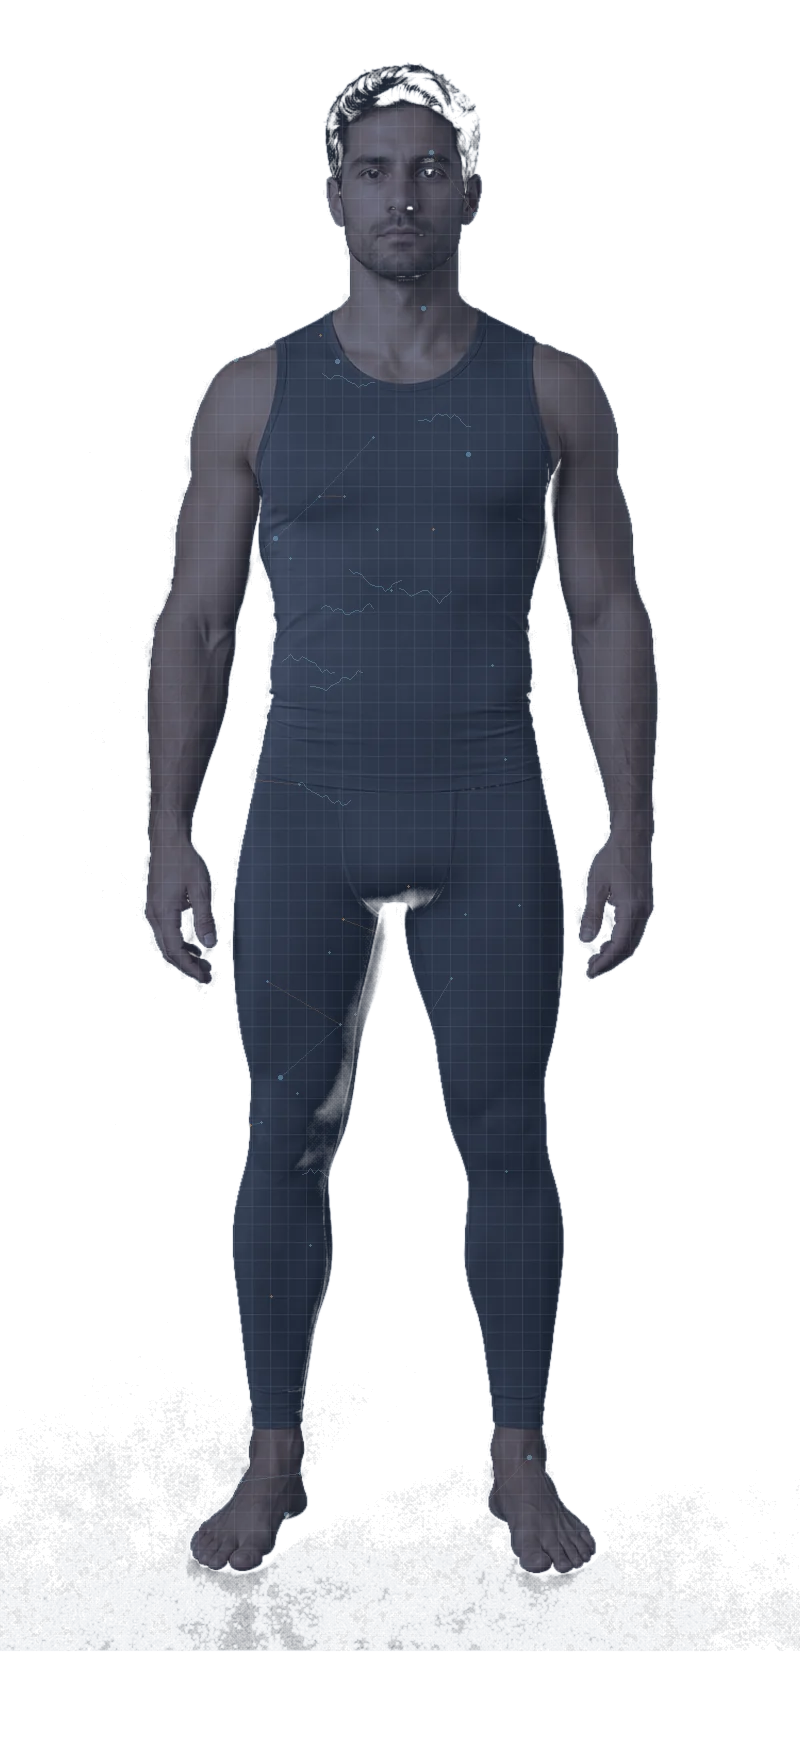
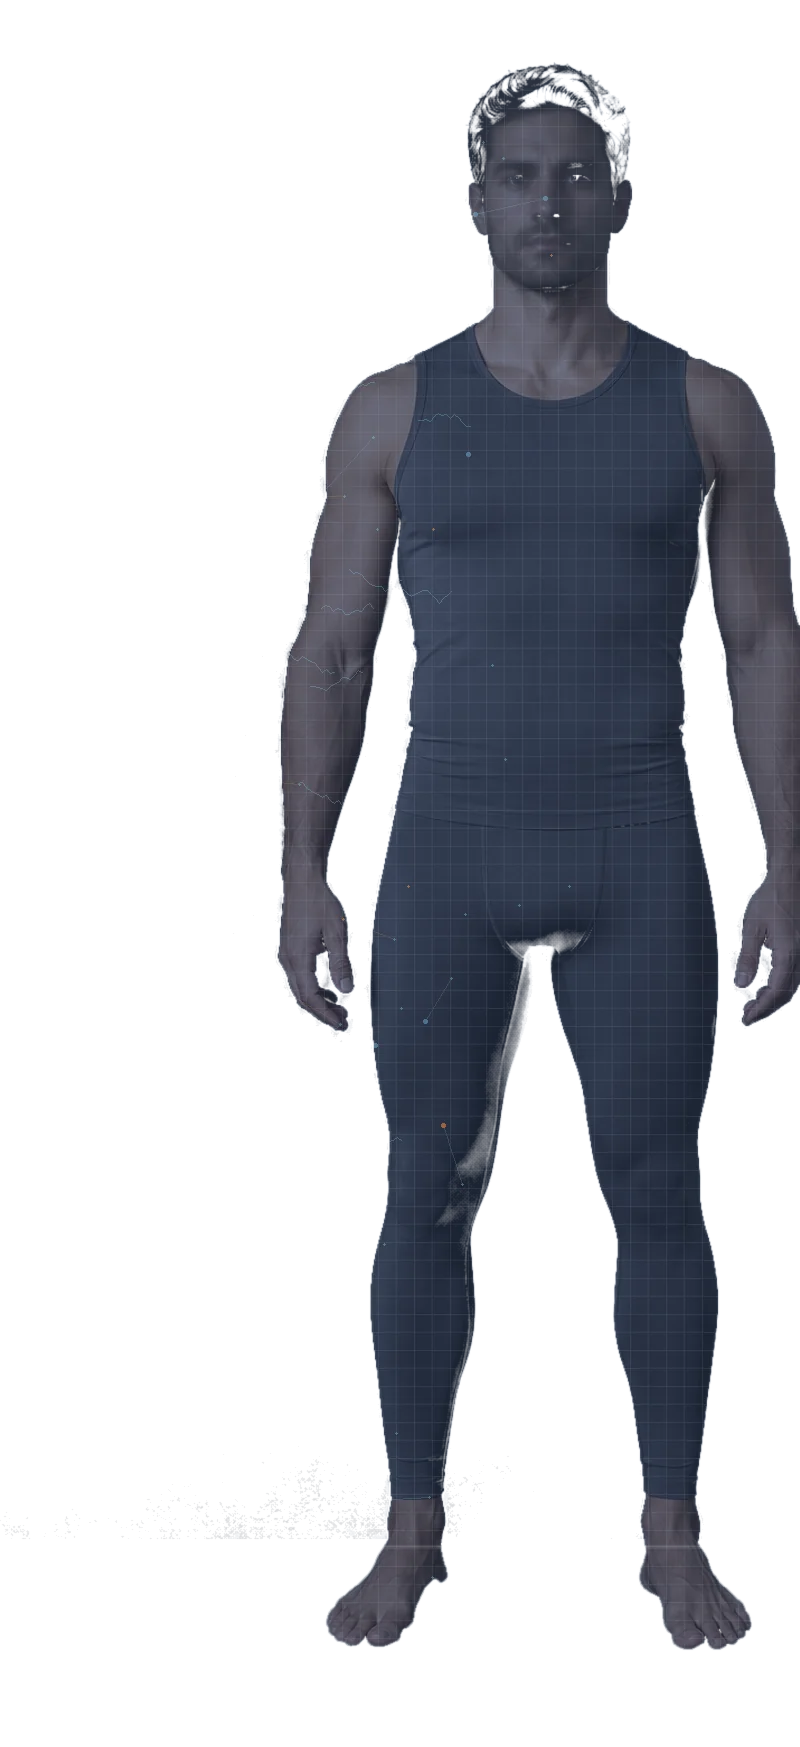
Clean male HDM cutout feet matte and soften harsh hair contrast.

diff --git a/src/components/home/humanDataModel/HumanSilhouette.tsx b/src/components/home/humanDataModel/HumanSilhouette.tsx
@@ -29,7 +29,7 @@ interface Props {
   onSelectCategory: (id: string) => void;
 }
 
-const FIGURE_CACHE = 'v=16';
+const FIGURE_CACHE = 'v=17';
 
 function hexToRgba(hex: string, alpha: number): string {
   const h = hex.replace('#', '');

diff --git a/scripts/generate-hdm-human.py b/scripts/generate-hdm-human.py
@@ -106,6 +106,88 @@ def clinical_grade(img: Image.Image, dark: bool) -> Image.Image:
     return Image.merge("RGBA", (*rgb.split(), a))
 
 
+def clean_feet_alpha(img: Image.Image) -> Image.Image:
+    """Strip studio-floor spill under ankles; keep foot silhouettes intact."""
+    w, h = img.size
+    alpha = img.split()[-1].point(lambda v: 255 if v >= 40 else 0)
+    bbox = alpha.getbbox()
+    if not bbox:
+        return img
+    _x0, _y0, _x1, y1 = bbox
+    # Bottom ~7% of the figure bbox: kill dark/low-alpha floor fringe.
+    y_zone = max(0, y1 - max(22, int((y1 - _y0) * 0.07)))
+    px = img.load()
+    for y in range(y_zone, h):
+        # Stronger kill on the very last rows (sole contact / floor plate).
+        bottom_boost = (y - y_zone) / max(1, (h - 1 - y_zone))
+        for x in range(w):
+            rr, gg, bb, aa = px[x, y]
+            if aa == 0:
+                continue
+            lum = 0.2126 * rr + 0.7152 * gg + 0.0722 * bb
+            # Floor spill is dark / semi-transparent; real feet stay brighter.
+            if aa < 110 and lum < (78 if bottom_boost > 0.55 else 68):
+                px[x, y] = (0, 0, 0, 0)
+            elif lum < (38 if bottom_boost > 0.55 else 30) and aa < 210:
+                px[x, y] = (0, 0, 0, 0)
+            elif aa < (70 if bottom_boost > 0.45 else 50):
+                px[x, y] = (0, 0, 0, 0)
+    # Soften only the bottom band edge.
+    r, g, b, a = img.split()
+    band = Image.new("L", (w, h), 0)
+    bd = ImageDraw.Draw(band)
+    bd.rectangle([0, y_zone, w, h], fill=255)
+    a_blur = a.filter(ImageFilter.GaussianBlur(0.5))
+    a = Image.composite(a_blur, a, band)
+    return Image.merge("RGBA", (r, g, b, a))
+
+
+def soften_crown_hair(img: Image.Image) -> Image.Image:
+    """Lift crushed hair blacks / compress harsh highlights near the crown."""
+    w, h = img.size
+    r, g, b, a = img.split()
+    rgb = Image.merge("RGB", (r, g, b))
+    # Soft blurred plate — reduces crunchy specular grain in short hair.
+    soft = rgb.filter(ImageFilter.GaussianBlur(2.2))
+    soft = ImageEnhance.Contrast(soft).enhance(0.72)
+    soft = ImageEnhance.Brightness(soft).enhance(1.14)
+    # Cool slate wash matching clinical body grade.
+    wash = Image.new("RGB", (w, h), (58, 70, 88))
+    soft = Image.blend(soft, wash, 0.22)
+
+    alpha = a.point(lambda v: 255 if v >= 40 else 0)
+    bbox = alpha.getbbox()
+    if not bbox:
+        return img
+    x0, y0, x1, y1 = bbox
+    fh = max(1, y1 - y0)
+    fw = max(1, x1 - x0)
+    # Crown region: top ~14% of figure height, centered.
+    y_end = y0 + max(14, int(fh * 0.14))
+    cx = (x0 + x1) * 0.5
+    rx = fw * 0.32
+    mask = Image.new("L", (w, h), 0)
+    md = ImageDraw.Draw(mask)
+    md.ellipse(
+        [int(cx - rx), y0 - int(fh * 0.02), int(cx + rx), y_end],
+        fill=255,
+    )
+    mask = mask.filter(ImageFilter.GaussianBlur(10))
+    # Don't over-soften bright facial skin inside the ellipse.
+    lum = rgb.convert("L")
+    face_protect = lum.point(lambda v: 0 if v < 95 else min(255, int((v - 95) * 3.6)))
+    face_protect = ImageChops.multiply(face_protect, mask)
+    mask = ImageChops.subtract(mask, face_protect.point(lambda v: int(v * 0.9)))
+    mask = ImageChops.multiply(mask, a)
+    # Stronger mix on darkest hair (crushed blacks), lighter on midtones.
+    dark_boost = lum.point(lambda v: 255 if v < 70 else max(0, 255 - int((v - 70) * 2.2)))
+    mask = ImageChops.lighter(mask, ImageChops.multiply(mask, dark_boost).point(lambda v: int(v * 0.55)))
+    mask = ImageChops.multiply(mask, a)
+
+    blended = Image.composite(soft, rgb, mask)
+    return Image.merge("RGBA", (*blended.split(), a))
+
+
 def make_overlay(size: tuple[int, int], dark: bool, rng: random.Random) -> Image.Image:
     w, h = size
     ov = Image.new("RGBA", size, (0, 0, 0, 0))
@@ -157,14 +239,22 @@ def thin_edge(alpha: Image.Image, dark: bool) -> Image.Image:
     return layer
 
 
-def compose(cut_path: Path, dark: bool, seed: int) -> Image.Image:
+def compose(cut_path: Path, dark: bool, seed: int, *, male: bool = False) -> Image.Image:
     rng = random.Random(seed + (1 if dark else 0))
     cut = Image.open(cut_path).convert("RGBA")
+    if male:
+        cut = clean_feet_alpha(cut)
     base = fit_cutout(cut, OUT_W, OUT_H)
+    if male:
+        # Second pass after fit: catch any residual floor that scaled into frame.
+        base = clean_feet_alpha(base)
     r, g, b, a = base.split()
-    a = a.point(lambda v: 0 if v < 12 else v).filter(ImageFilter.GaussianBlur(0.4))
+    # Male: slightly higher floor threshold kills leftover studio fringe.
+    a = a.point(lambda v: 0 if v < (18 if male else 12) else v).filter(ImageFilter.GaussianBlur(0.4))
     base = Image.merge("RGBA", (r, g, b, a))
     graded = clinical_grade(base, dark=dark)
+    if male:
+        graded = soften_crown_hair(graded)
     wash = Image.new("RGBA", graded.size, (15, 23, 42, 0) if dark else (241, 245, 249, 0))
     wash.putalpha(a.point(lambda v: int(v * (0.28 if dark else 0.12))))
     graded = Image.alpha_composite(graded, wash)
@@ -188,9 +278,10 @@ def build_figure(name: str) -> None:
     cut = cfg["cut"]
     if not cut.exists():
         raise SystemExit(f"missing cutout master for {name}: {cut}")
+    male = name == "male"
     # Do not regenerate female from scratch unless cutout exists — still OK to rebuild grade.
-    dark = compose(cut, True, cfg["seed"])
-    light = compose(cut, False, cfg["seed"])
+    dark = compose(cut, True, cfg["seed"], male=male)
+    light = compose(cut, False, cfg["seed"], male=male)
     for p in cfg["out_dark"]:
         save_webp(dark, p, 84)
     for p in cfg["out_light"]:
